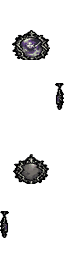
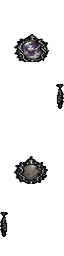
Wall pieces sit on the wall's face, measured against vanilla's own art
I had read WallObject's three 16px rows as 48px of hangable wall. Only two
of them are the face; the top row is the block's upper surface. Vanilla
settles it without guesswork: PaintingObject draws rotation 2 as a 32x32
cell at drawY-32, and every vanilla one-tile painting fills that cell from
y2 to y32. So the face is exactly 32px, and on the 64x256 sheet (band 0 at
drawY-64) art belongs in band-y 32..64 -- vanilla's five large paintings
all sit at y34..62.

walleye, magicmirror and hauntedwallclock are re-derived from their
pre-alignment art (no second resampling) at 28px, bottom y62, back y56,
side slivers flush and centred: the same envelope vanilla uses. The clock
loses size by it -- its art is drawn as a tall grandfather clock, which no
2-tile wall frame can carry; a redraw as a wide wall clock is the real fix
and is noted in the handover.

diff --git a/tools/align_wall_piece.py b/tools/align_wall_piece.py
@@ -3,26 +3,34 @@
 
 WOZU. `LargePaintingObject` schneidet aus dem 64x256-Blatt vier feste Felder
 und zeichnet sie mit festen Versaetzen. Wer die Kunst frei ins Band malt,
-haengt sie im Spiel neben die Wand: `pos(drawX, drawY-64)` bedeutet, dass
-Inhalt oberhalb von Band-y 16 ueber die Wandkrone hinausragt und auf dem
-Boden dahinter landet -- "halb auf Wand, halb auf Decke".
+haengt sie im Spiel neben die Wand: Band 0 wird bei `pos(drawX, drawY-64)`
+gezeichnet, Inhalt oberhalb von Band-y 32 liegt also nicht mehr auf der
+Wandvorderseite -- "halb auf Wand, halb auf Decke".
 
-DIE MASSE, gemessen an paintinglargeabstract/castle/ship/flatgrass:
+WIE BREIT DIE WAND WIRKLICH IST. Eine Wandkachel zeichnet drei 16er-Reihen
+ab `drawY-16`: die oberste ist die *Oberseite* des Blocks (die Flaeche, die
+in der Schraegsicht nach oben zeigt), die zwei darunter sind die
+*Vorderseite*. Angeschlagen wird nur auf der Vorderseite, und die ist genau
+32 px hoch: `PaintingObject` zeichnet fuer Rotation 2 eine 32x32-Zelle bei
+`drawY-32`, und Vanillas einkachelige Gemaelde fuellen diese Zelle von y2 bis
+y32 randvoll. Wer hoeher baut, klebt auf der Oberseite -- das sieht aus, als
+haenge das Stueck halb an der Decke. Ein Buecherregal darf das, ein Bild nie.
 
-    Band 0 (y 0..64)    Vorderseite, Wand im Norden   Inhalt y 30..60
+DIE MASSE, gemessen an paintinglargeabstract/castle/ship/flatgrass/worldmap:
+
+    Band 0 (y 0..64)    Vorderseite, Wand im Norden   Inhalt y 34..62
     Band 1 (y 64..128)  Seitenblick Ost               buendig rechts, Mitte y32
-    Band 2 (y 128..192) Rueckseite, Wand im Sueden    Inhalt y 24..56
+    Band 2 (y 128..192) Rueckseite, Wand im Sueden    Inhalt y 28..56
     Band 3 (y 192..256) Seitenblick West              buendig links, Mitte y32
 
-Die Wandflaeche selbst ist 48 px hoch (`WallObject` zeichnet drei 16er-Reihen
-ab `drawY-16`), Vanilla nutzt davon nur die unteren 30. Fuer hohe Stuecke --
-eine Standuhr ist keine Postkarte -- darf `--hoehe` bis 46 gehen; darueber
-steht das Stueck wieder auf dem Boden hinter der Wand. Skaliert wird immer
-gleichmaessig, das Blatt wird also nicht verzerrt.
+Band 0 wird bei `drawY-64` gezeichnet, die Wandvorderseite liegt also bei
+Band-y 32..64. Deshalb der Deckel: `--hoehe` darf 30 nicht ueberschreiten,
+sonst ragt das Stueck ueber die Kante von Wand zu Oberseite. Skaliert wird
+immer gleichmaessig, das Blatt wird also nicht verzerrt.
 
 Aufruf:
     PYTHONPATH=/home/blackoffset/dev/pylib python3 tools/align_wall_piece.py \
-        hauntedwallclock --hoehe 42
+        walleye hauntedwallclock magicmirror
 """
 import argparse
 import os
@@ -32,9 +40,9 @@ from PIL import Image
 REPO = os.path.dirname(os.path.dirname(os.path.abspath(__file__)))
 PAINTINGS = os.path.join(REPO, "src", "main", "resources", "objects", "paintings")
 
-VANILLA_HEIGHT = 30     # hoechstes Vanilla-Gemaelde (castle), y30..60
-WALL_FACE = 46          # was die Wandflaeche noch traegt
-FRONT_BOTTOM = 60       # Unterkante Band 0 bei Vanilla
+VANILLA_HEIGHT = 28     # Vanillas grosse Gemaelde: y34..62
+WALL_FACE = 30          # mehr passt nicht auf die Vorderseite (Band-y 32..64)
+FRONT_BOTTOM = 62       # Unterkante Band 0 bei Vanilla
 BACK_BOTTOM = 56        # Unterkante Band 2 bei Vanilla
 CENTRE_X = 31           # waagerechte Mitte bei Vanilla (nicht 32)
 
@@ -97,12 +105,12 @@ def main():
     ap = argparse.ArgumentParser()
     ap.add_argument("ids", nargs="+", help="Objekt-IDs unter objects/paintings/")
     ap.add_argument("--hoehe", type=int, default=VANILLA_HEIGHT,
-                    help="Hoehe der Vorderansicht in px (Vanilla 30, hoechstens %d)" % WALL_FACE)
+                    help="Hoehe der Vorderansicht in px (Vanilla 28, hoechstens %d)" % WALL_FACE)
     ap.add_argument("--probe", action="store_true", help="nur rechnen, nichts schreiben")
     args = ap.parse_args()
     if args.hoehe > WALL_FACE:
-        raise SystemExit("--hoehe %d ragt ueber die Wandkrone (hoechstens %d)"
-                         % (args.hoehe, WALL_FACE))
+        raise SystemExit("--hoehe %d ragt ueber die Kante von Vorderseite zu "
+                         "Oberseite (hoechstens %d)" % (args.hoehe, WALL_FACE))
 
     for oid in args.ids:
         path = os.path.join(PAINTINGS, oid + ".png")
